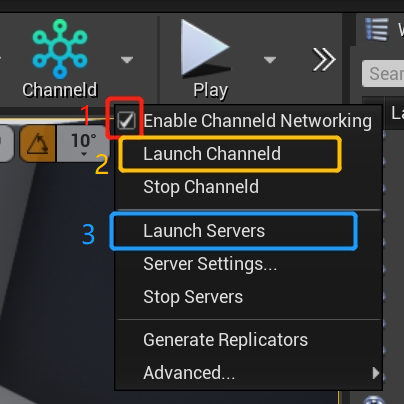
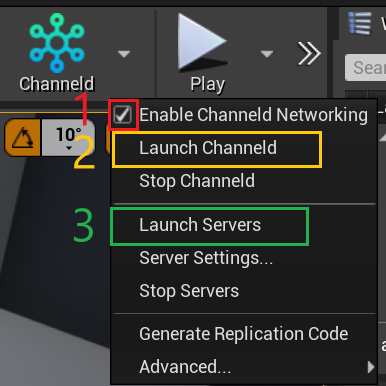
- Simplified documentation

diff --git a/Plugins/ChanneldUE/Docs/zh/getting-started.md b/Plugins/ChanneldUE/Docs/zh/getting-started.md
@@ -17,21 +17,44 @@ protoc-gen-go - Protobuf的go代码生成工具
 ```
 
 # 2.创建第三人称模板项目
-## 2.1.创建项目并复制插件
-新建一个基于第三人称模板的UE蓝图项目：在Unreal Project Browser中选择"Game" -> "Third Person" -> "C++"。
+## 2.1.创建项目
+##### 1. 新建一个基于第三人称模板的UE项目
+使用第三人称模板的创建UE项目。
+![](../images/create_project.png)
 
 ```
 注意：ChannelUE插件只支持C++项目。如果您使用的是纯蓝图项目，需要先转换为C++项目。
 ```
 
-项目创建后，关闭UE编辑器。将1.1.步骤中克隆的插件代码仓库目录复制到项目的`Plugins`目录下。
+##### 2. 复制插件
 
-修改项目Build.cs文件，添加插件的模块`ChanneldUE`和`ProtobufUE`：
+将1.1.步骤中克隆的插件代码仓库目录复制到项目的`Plugins`目录下。
+
+##### 3. 修改项目Build.cs文件
+
+为项目添加插件的模块`ChanneldUE`和`ProtobufUE`：
+
 ```csharp
 PublicDependencyModuleNames.AddRange(new string[] { "Core", "CoreUObject", "Engine", "InputCore", "ChanneldUE", "ProtobufUE" });
 ```
 
+##### 4. 修改项目的配置文件
+
+打开项目的配置文件`Config/DefaultEngine.ini`，并添加插件相关的日志输出等级：
+
+```
+[Core.log]
+LogChanneld=All
+LogChanneldEditor=All
+LogChanneldRepGenerator=All
+```
+
+```
+提示：该配置用于设置插件的日志输出级别。如果不需要查看插件的日志信息，可以不进行此步骤。但是建议开发者在开发过程中开启日志输出，以便查看插件的运行情况。
+```
+
 ## 2.2.重新编译运行项目并开启插件
+
 在文件浏览器中右键点击项目的`*.uproject`文件，选择"Generate Visual Studio project files"，重新生成项目的解决方案文件。
 在Visual Studio中重新加载解决方案，并编译运行项目。当UE编辑器再次打开时，工具栏会出现插件图标：
 
@@ -40,36 +63,37 @@ PublicDependencyModuleNames.AddRange(new string[] { "Core", "CoreUObject", "Engi
 如果插件图标未显示，在编辑器的顶部菜单栏中选择"Plugins" -> "ChanneldUE" -> "Enable"，启用插件。
 
 ## 2.3.为项目创建基础同步类和Game Mode
-接下来，因为项目默认用到Gameplay框架并不支持基于channeld的网络同步，所以需要创建一批添加了同步组件的蓝图类。
+因为项目默认用到Gameplay框架并不支持基于channeld的网络同步，所以需要创建一批添加了同步组件的蓝图类。
 
-首先，打开第三人称角色的蓝图`ThirdPersonCharacter`，并为其添加同步组件`ChanneldReplicationComponent`：
+##### 1. 为第三人称角色蓝图添加同步组件
+
+打开第三人称角色的蓝图`ThirdPersonCharacter`，并为其添加同步组件`ChanneldReplicationComponent`：
 
 ![](../images/character_rep_component.png)
 
-然后，新建第三人称控制器的蓝图`ThirdPersonPlayerController`，在类默认值中勾选`复制(Replicates)`，并为其添加同步组件：
+##### 2. 创建`PlayerController`、`GameState`和`PlayerState`蓝图
 
-![](../images/player_controller_bp.png)
+创建三个蓝图，他们分别继承自`PlayerController`、`ChanneldGameState`和`PlayerState`，并分别将它们命名为`ThirdPersonPlayerController`、`ThirdPersonGameState`和`ThirdPersonPlayerState`：
 
-接下来，因为`GameStateBase`和`PlayerState`分别负责同步游戏和玩家中的状态，还需要创建分别为它们创建蓝图类，并同样地，开启`复制(Replicates)`，添加同步组件：
-
-![](../images/game_state_base.png)
+![](../images/new_blueprints.png)
 
 ```
 提示：此处选择GameStateBase或ChanneldGameState都可以。如果要在之后的开发中使用到跨服的GameState功能，则需要选择ChanneldGameState。
 ```
 
-![](../images/player_state.png)
-
+##### 3. 为新创建的三个蓝图开启`复制(Replicates)`，并添加同步组件`ChanneldReplicationComponent`。
 
 ```
 小贴士：记得在开启Relicates和添加同步组件后，编译和保存上述蓝图！
 ```
 
-最后，添加一个新的GameMode蓝图`ThirdPersonGameMode`（如果已存在，则打开），并为其设置Game State Class, Player Controller Class, Player State Class和Default Pawn Class：
+ ##### 4. 创建`GameMode`蓝图
+ 
+ 创建一个新的GameMode蓝图`ThirdPersonGameMode`（如果已存在，则打开），将设置Game State Class, Player Controller Class, Player State Class和Default Pawn Class分别设置为`ThirdPersonGameState`、`ThirdPersonPlayerController`、`ThirdPersonPlayerState`和`ThirdPersonCharacter`。
 
 ![](../images/game_mode.png)
 
-在项目设置中,将`ThirdPersonGameMode`设置为默认Game Mode：
+##### 5. 在项目设置中将`ThirdPersonGameMode`设置为默认Game Mode
 
 ![](../images/project_settings_game_mode.png)
 
@@ -82,16 +106,21 @@ PublicDependencyModuleNames.AddRange(new string[] { "Core", "CoreUObject", "Engi
 
 `SingleChannelDataView`是插件中内置的视图蓝图类，它会在服务端创建**全局频道**，并在客户端连接成功后订阅到该频道。订阅成功后，客户端发送的网络数据会通过channeld转发到全局频道的所有者，即创建该频道的服务端。
 
-## 3.2.配置服务器组提示
-作为UE的分布式架构扩展，ChanneldUE插件支持同时启动多个UE服务器进程，每个进程可以配置自己的视图和启动参数。
-要添加一个服务器组，打开主菜单`编辑 -> 编辑器偏好设置 -> 插件 -> Channeld Editor`。点击`Server Groups`一栏的加号按钮，并展开设置项：
+## 3.2.配置服务器组
+作为UE的分布式架构扩展，为了方便调试，在开发过程中ChanneldUE插件支持同时启动多个UE服务器进程，每个进程可以配置自己的视图和启动参数。
+
+首先添加一个服务器组，打开主菜单`编辑 -> 编辑器偏好设置 -> 插件 -> Channeld Editor`。点击`Server Groups`一栏的加号按钮，并展开设置项：
 
 ![](../images/settings_server_group.png)
 
 确保Enabled为勾选，Server Num为1，并设置Server View Class同样为`SingleChannelDataView`。Server Map留空则表示启动服务器时，会使用编辑器当前打开的地图。
 
 # 4.启动channeld服务和游戏服务器
-点击工具栏中插件图标的下拉按钮，确保`Enable Channeld Networking`为选中状态：
+
+第一次启动channeld服务和游戏服务器前需要生成同步器代码，点击`Generate Replication Code`选项，生成同步代码。首次生成时间要遍历项目中所有的代码和蓝图，所以可能较长，请耐心等待。
+![](../images/generate_replicaiton_code.png)
+
+等待代码生成成功后，点击工具栏中插件图标的下拉按钮，确保`Enable Channeld Networking`为选中状态：
 
 ![](../images/toolbar_menu.png)
 
@@ -107,7 +136,7 @@ PublicDependencyModuleNames.AddRange(new string[] { "Core", "CoreUObject", "Engi
 
 # 5.运行游戏并测试
 ## 5.1.测试单个客户端
-确保在`运行Standalone`网络模式下运行游戏。此时客户端尚未连接到channeld，需要手动连接。在客户端的控制台中输入`connect 127.0.0.1`并回车。观察到客户端重新加载地图并创建角色，说明连接成功。
+确保在`运行Standalone`网络模式下运行游戏。此时客户端尚未连接到channeld，需要手动连接。在客户端的控制台中输入`open 127.0.0.1`并回车。观察到客户端重新加载地图并创建角色，说明连接成功。
 
 在地图中移动角色，并观察服务器的控制台中打印的日志，会出现对应的同步数据输出：
 
@@ -125,7 +154,7 @@ PublicDependencyModuleNames.AddRange(new string[] { "Core", "CoreUObject", "Engi
 
 此时，增加玩家数量并运行游戏。第一个客户端窗口会立刻出现；其它客户端窗口会稍后出现，因为它们都是单独的UE进程，需要一些时间启动。
 
-在每个客户端窗口中，打开控制台并输入`connect 127.0.0.1`。观察多个客户端之间的同步。
+在每个客户端窗口中，打开控制台并输入`open 127.0.0.1`。观察多个客户端之间的同步。
 
 在入门教程中，客户端都需要通过这种方式手动连接。*频道数据视图*的章节中，将会介绍如何通过扩展视图，在蓝图中建立连接。
 
@@ -157,7 +186,7 @@ PublicDependencyModuleNames.AddRange(new string[] { "Core", "CoreUObject", "Engi
 ```
 
 ## 6.3.在玩家控制器中实现创建Actor的逻辑
-在`BP_ThirdPersonPlayerController`中，添加如下节点，使玩家按下`F`键时，在角色前方创建一个`BP_TestActor`，并为其设置一个随机的Size：
+在`ThirdPersonPlayerController`中，添加如下节点，使玩家按下`F`键时，在角色前方创建一个`BP_TestActor`，并为其设置一个随机的Size：
 
 ![](../images/pc_spawn_cube.png)
 
@@ -174,7 +203,7 @@ PublicDependencyModuleNames.AddRange(new string[] { "Core", "CoreUObject", "Engi
 
 首先，点击插件工具栏中的`Stop Servers`关闭之前开启的游戏服务器。然后，点击`Stop Channeld`关闭之前开启的channeld服务：
 
-// TODO 截图
+![](../images/stop_servers_and_channeld.png)
 
 然后，点击`Generate Replication Code`选项，生成同步代码。首次生成时间要遍历项目中所有的代码和蓝图，所以可能较长，请耐心等待。
 
